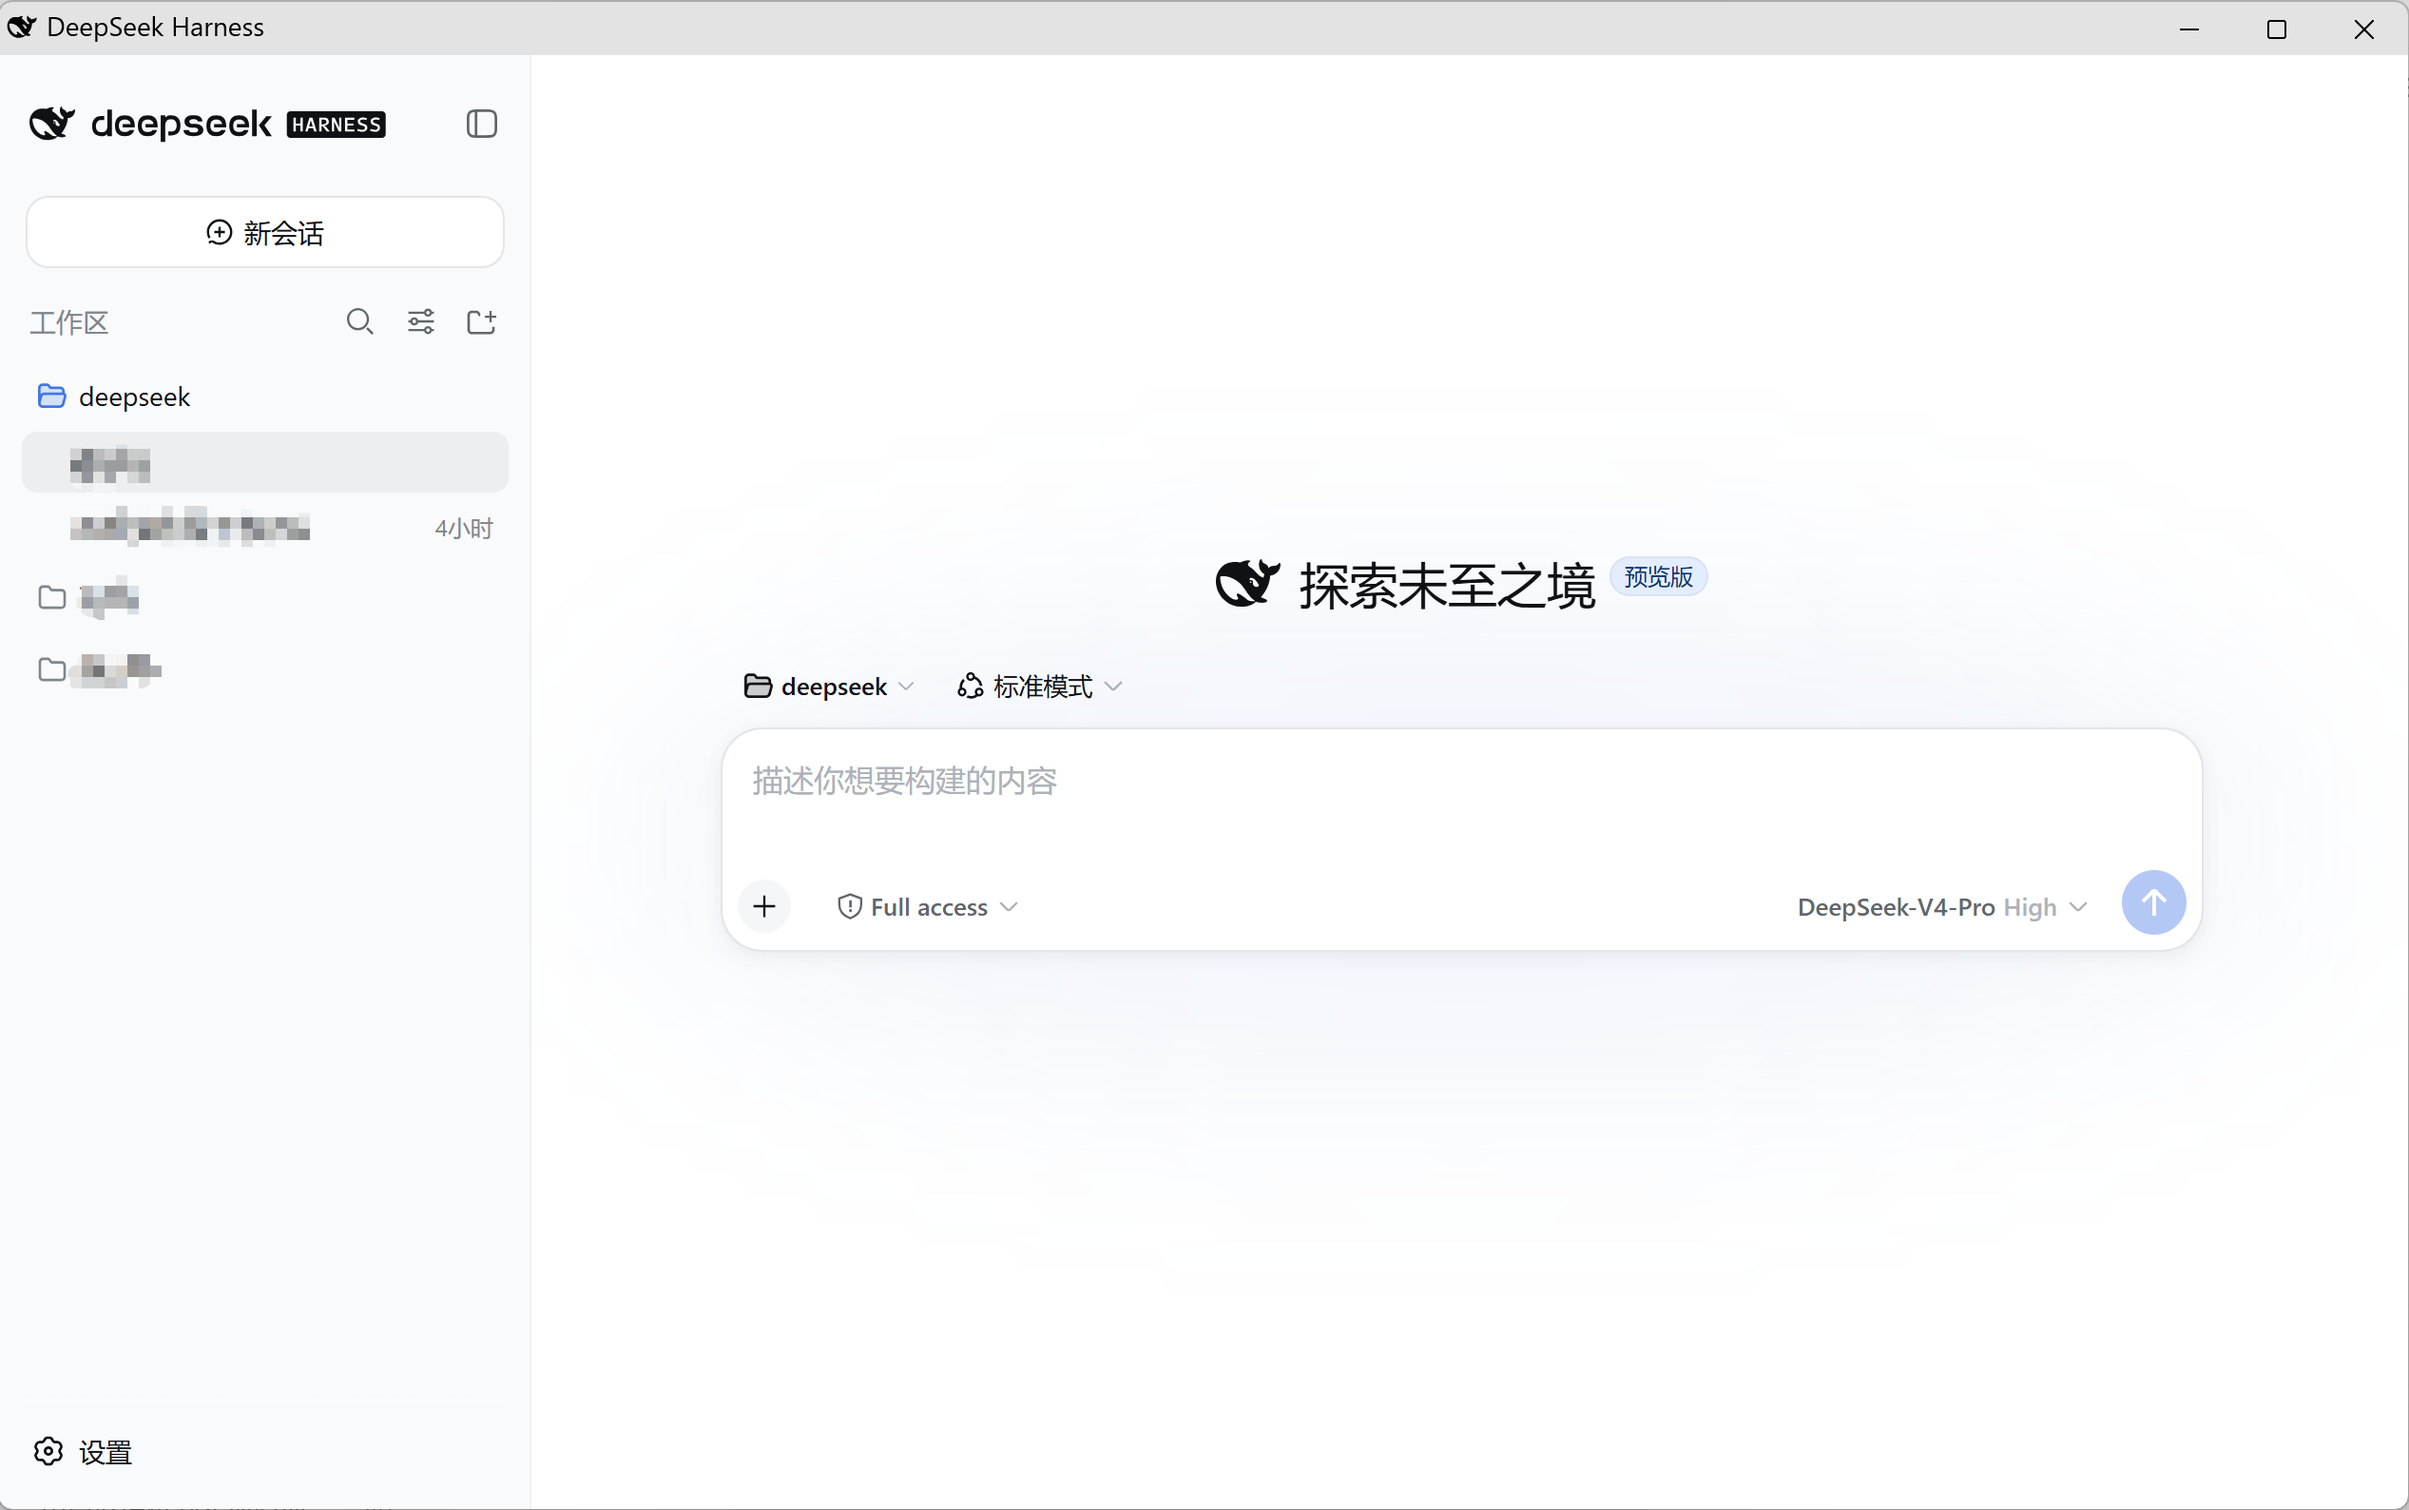
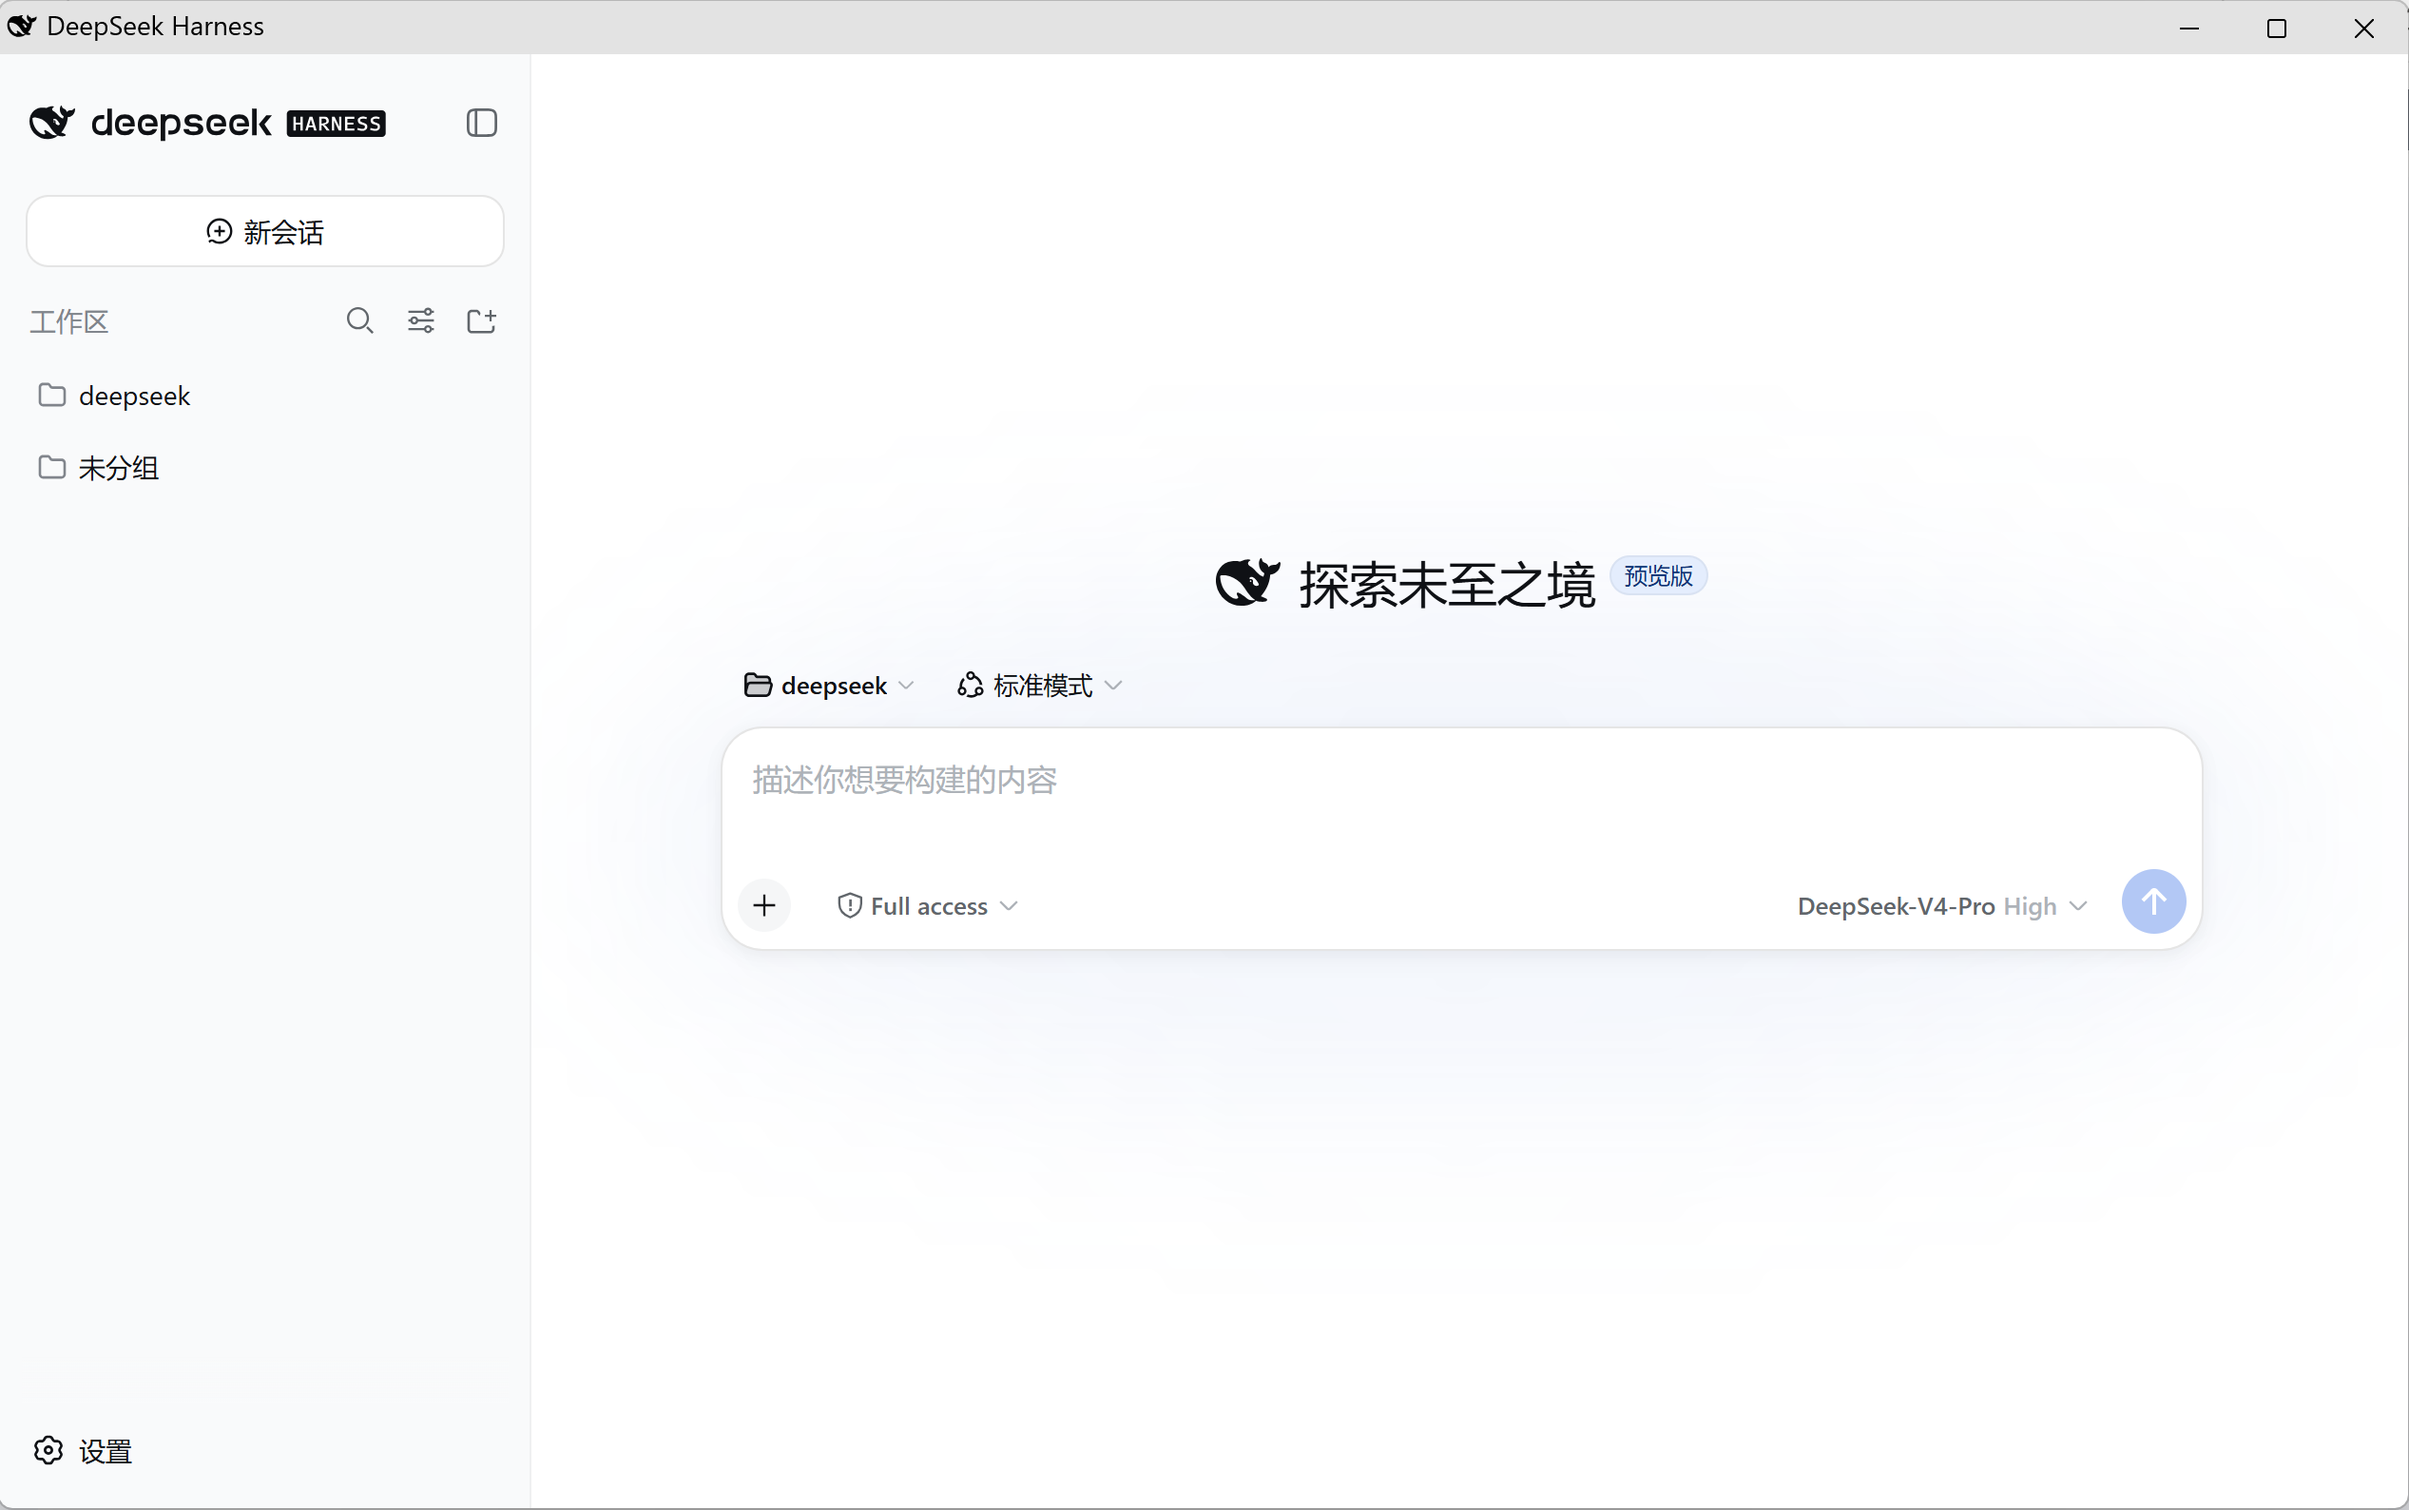
docs: clarify native-web-under-the-hood positioning and refresh effect screenshots

diff --git a/README.md b/README.md
@@ -3,7 +3,11 @@
 [![GitHub topic: dsh-plugin](https://img.shields.io/badge/GitHub-dsh--plugin-0969da?style=flat-square)](https://github.com/topics/dsh-plugin)
 [![License: MIT](https://img.shields.io/badge/License-MIT-yellow.svg)](LICENSE)
 
-让 DeepSeek Harness 像普通桌面软件一样运行：首次启动后自动创建桌面图标，之后双击图标即可打开独立窗口。
+让 `dsh web` 像普通桌面软件一样运行：**本质是原生 Web，视觉上是桌面软件**。首次启动后自动创建桌面图标，之后双击图标即可打开独立窗口。
+
+- **本质是原生 Web**：背后就是官方 `dsh web` 服务，没有 Electron、没有二次打包、没有 fork，功能与 Web 版完全一致；
+- **视觉上是桌面软件**：窗口由 Edge/Chrome/Brave/Vivaldi 的 `--app` 模式打开，没有标签栏和地址栏，看起来与原生桌面应用无异；
+- **生命周期像桌面软件**：双击图标启动、关闭窗口即退出，临时浏览器 profile 用完自动删除。
 
 这是非官方社区插件，与 DeepSeek 官方无隶属或背书关系。
 
@@ -13,7 +17,7 @@
 
 ![DeepSeek Harness 桌面快捷方式图标](assets/ico.png)
 
-**应用模式独立窗口**（无标签栏、无地址栏，关闭窗口即退出）：
+**应用模式独立窗口**（视觉上是桌面软件，本质是原生 Web UI；无标签栏、无地址栏，关闭窗口即退出）：
 
 ![DeepSeek Harness 应用模式窗口](assets/Harness.png)
 
